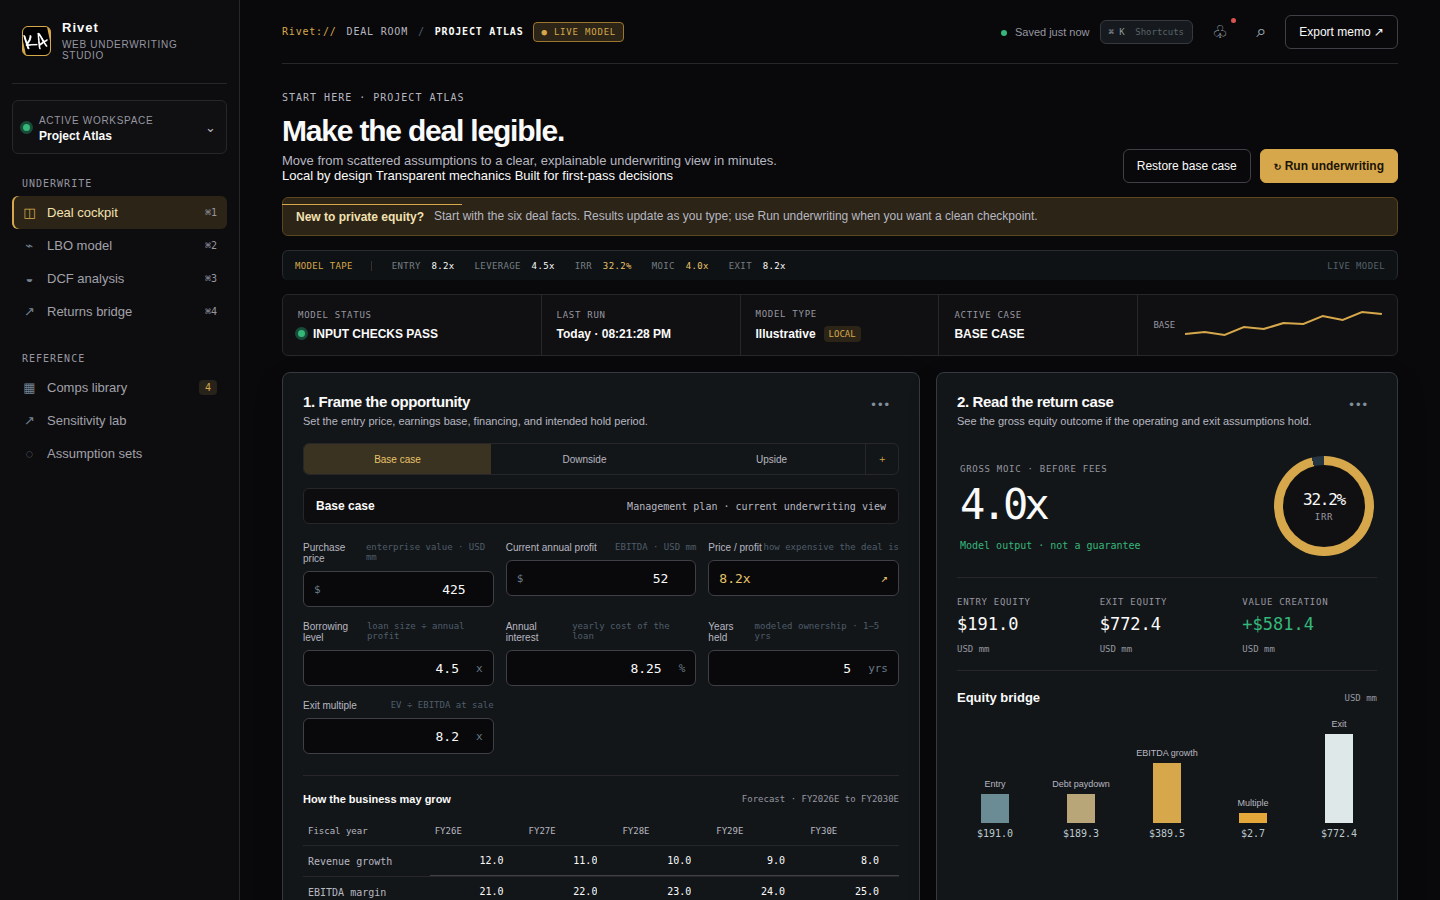
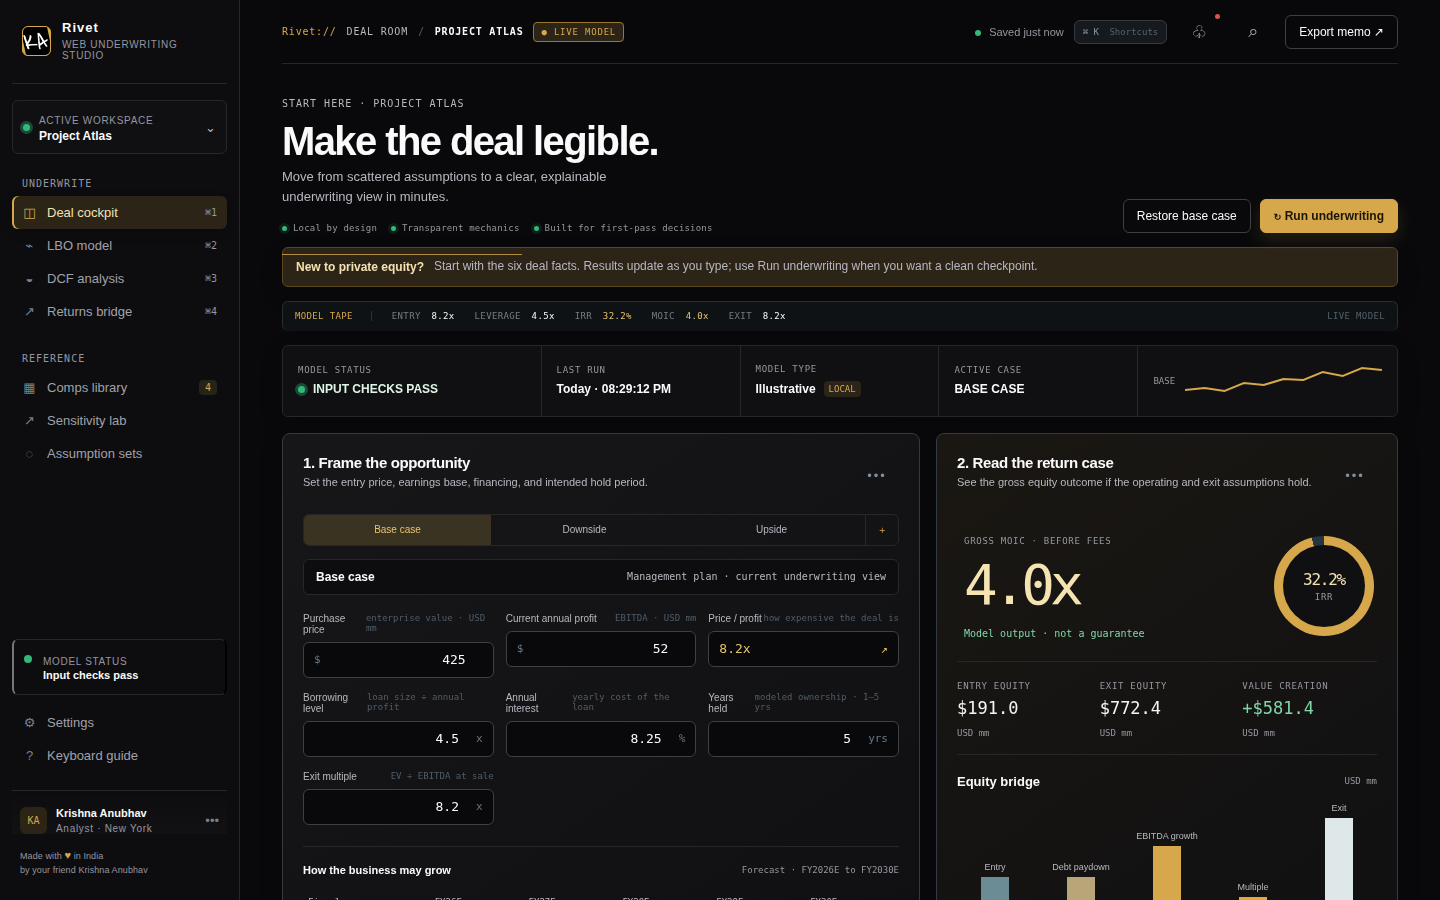
Fix unclosed 720px media query (desktop Sensitivity lab, DCF inputs, Model status, IRR ring) (#6)
Fixes #4

Claude-Session: https://claude.ai/code/session_01A42wbaQJVk97N5TsWqXP4G

diff --git a/styles.css b/styles.css
@@ -184,10 +184,10 @@ footer a{color:var(--muted)}
   .case-context span{display:block;text-align:left;margin-top:4px;line-height:1.4}
 }
 .positive{color:var(--kavy-positive)!important}.status-dot,.pulse{background:var(--kavy-positive)}.status-dot{box-shadow:0 0 0 3px #194b39}.button.primary{background:var(--kavy-gold);border-color:var(--kavy-gold)}.button.primary:hover{background:var(--kavy-gold-highlight);border-color:var(--kavy-gold-highlight)}.live-chip{color:var(--kavy-gold);border-color:var(--kavy-gold-deep)}.brand-mark,.brand-mark{border-color:var(--kavy-gold);color:var(--kavy-gold)}.segmented .selected,.chart-filter.active{background:#3b3322;color:var(--kavy-gold-highlight)}.heat.current{outline-color:var(--kavy-gold)}.readiness{color:var(--kavy-positive);border-color:#286447}.checklist em{color:var(--kavy-positive)}.checklist em.pending{color:var(--kavy-warning)}.calculated{color:var(--kavy-gold-highlight)}.radial{background:conic-gradient(var(--kavy-gold) 0 80%,#34302a 80% 100%)}.radial:after{background:var(--surface)}.ticker-spark path,.chart-line{stroke:var(--kavy-gold)}.line-chart circle{fill:var(--kavy-gold)}.console-log span:first-child{color:var(--kavy-gold)}.dist-bars i.peak{background:var(--kavy-gold)}
-.workspace-view{padding-top:30px}.workspace-view[hidden]{display:none}.workspace-hero{display:flex;justify-content:space-between;align-items:flex-end;margin-bottom:20px}.workspace-hero h1{font-size:32px;letter-spacing:-.06em;margin:0 0 5px}.workspace-hero p{color:var(--muted);margin:0}.workspace-meta{display:flex;flex-direction:column;align-items:flex-end;gap:10px}.mono{font:10px var(--mono)}.workspace-content{min-height:440px}.workspace-grid{display:grid;grid-template-columns:1fr 1fr;gap:28px}.workspace-grid.lower{margin-top:30px;padding-top:22px;border-top:1px solid #343a40}.workspace-content h3{font-size:13px;margin:0}.workspace-note{color:var(--faint);font:10px var(--mono);margin:7px 0 14px}.model-table{font:11px var(--mono);border-top:1px solid #343a40}.model-table>div{display:flex;justify-content:space-between;padding:13px 8px;border-bottom:1px solid #2a3034;color:#a6adb4}.model-table b{color:var(--kavy-white);font-weight:500}.model-table .subtotal{color:var(--kavy-white);background:#1c1e20}.metric-row{display:flex;justify-content:space-between;border-bottom:1px solid #2a3034;padding:14px 4px;color:var(--muted);font:11px var(--mono)}.metric-row strong{color:var(--kavy-gold-highlight)}.formula-box{margin-top:30px;padding:18px;background:#0f1113;border:1px solid #343a40;display:flex;justify-content:space-between;color:var(--kavy-muted);font:11px var(--mono)}.formula-box b{color:var(--kavy-positive);font-weight:400}.returns-workspace{display:grid;grid-template-columns:280px 1fr;gap:38px;align-items:center}.return-hero-large{border-right:1px solid #343a40;padding:15px 30px 15px 0}.return-hero-large small{font:10px var(--mono);color:var(--faint)}.return-hero-large strong{display:block;color:var(--kavy-gold-highlight);font:58px var(--mono);letter-spacing:-.1em;margin:10px 0}.return-hero-large span{font:10px var(--mono)}.return-drivers>div{position:relative;margin:18px 0;color:var(--muted);font:11px var(--mono)}.return-drivers b{float:right;color:var(--kavy-white)}.return-drivers i{display:block;height:6px;background:var(--kavy-positive);margin-top:9px}.return-drivers i.gold-bar{background:var(--kavy-gold)}.comps-toolbar,.sensitivity-header{display:flex;justify-content:space-between;align-items:center;margin-bottom:17px}.comps-toolbar input{width:250px;background:#0f1113;border:1px solid #343a40;color:var(--text);padding:11px;outline:0}.comp-table{font:10px var(--mono)}.comp-head,.comp-row{display:grid;grid-template-columns:2fr repeat(4,1fr);gap:10px;padding:13px 10px;border-bottom:1px solid #2a3034}.comp-head{color:var(--faint);font-size:9px}.comp-row b{text-align:right;font-weight:400;color:var(--kavy-white)}.comp-row.selected-row{background:#2d2619;box-shadow:inset 0 0 0 1px var(--kavy-gold-deep)}.large-surface{display:grid;grid-template-columns:repeat(7,1fr);gap:3px}.surface-cell{padding:23px 5px;text-align:center;font:11px var(--mono);color:#101412;background:#4d7257}.s1{background:#2b3a35}.s2{background:#3d5849}.s3{background:#56745a}.s4{background:#6f9168}.s5{background:#8eac76}.s6{background:#b9c384}.s7{background:#d6d29b}.legend{display:flex;gap:10px;align-items:center;color:var(--faint);font:9px var(--mono);margin-top:13px}.legend i{height:6px;flex:1;background:linear-gradient(90deg,#2b3a35,#d6d29b)}.assumption-list{border-top:1px solid #343a40;margin-bottom:22px}.assumption-row{display:flex;align-items:center;gap:13px;border-bottom:1px solid #2a3034;padding:17px 10px}.assumption-row>div{flex:1}.assumption-row strong,.assumption-row small{display:block}.assumption-row small{color:var(--faint);font:10px var(--mono);margin-top:5px}.assumption-row>b{color:var(--faint);font:9px var(--mono)}.assumption-row.active{background:#2d2619}.assumption-row.active>b{color:var(--kavy-gold)}.muted-dot{background:#69737a;box-shadow:none}
+.workspace-view{padding-top:30px}.workspace-view[hidden]{display:none}.workspace-hero{display:flex;justify-content:space-between;align-items:flex-end;margin-bottom:20px}.workspace-hero h1{font-size:32px;letter-spacing:-.06em;margin:0 0 5px}.workspace-hero p{color:var(--muted);margin:0}.workspace-meta{display:flex;flex-direction:column;align-items:flex-end;gap:10px}.mono{font:10px var(--mono)}.workspace-content{min-height:440px}.workspace-grid{display:grid;grid-template-columns:1fr 1fr;gap:28px}.workspace-grid.lower{margin-top:30px;padding-top:22px;border-top:1px solid #343a40}.workspace-content h3{font-size:13px;margin:0}.workspace-note{color:var(--faint);font:10px var(--mono);margin:7px 0 14px}.model-table{font:11px var(--mono);border-top:1px solid #343a40}.model-table>div{display:flex;justify-content:space-between;padding:13px 8px;border-bottom:1px solid #2a3034;color:#a6adb4}.model-table b{color:var(--kavy-white);font-weight:500}.model-table .subtotal{color:var(--kavy-white);background:#1c1e20}.metric-row{display:flex;justify-content:space-between;border-bottom:1px solid #2a3034;padding:14px 4px;color:var(--muted);font:11px var(--mono)}.metric-row strong{color:var(--kavy-gold-highlight)}.formula-box{margin-top:30px;padding:18px;background:#0f1113;border:1px solid #343a40;display:flex;justify-content:space-between;color:var(--kavy-muted);font:11px var(--mono)}.formula-box b{color:var(--kavy-positive);font-weight:400}.returns-workspace{display:grid;grid-template-columns:280px 1fr;gap:38px;align-items:center}.return-hero-large{border-right:1px solid #343a40;padding:15px 30px 15px 0}.return-hero-large small{font:10px var(--mono);color:var(--faint)}.return-hero-large strong{display:block;color:var(--kavy-gold-highlight);font:58px var(--mono);letter-spacing:-.1em;margin:10px 0}.return-hero-large span{font:10px var(--mono)}.return-drivers>div{position:relative;margin:18px 0;color:var(--muted);font:11px var(--mono)}.return-drivers b{float:right;color:var(--kavy-white)}.return-drivers i{display:block;height:6px;background:var(--kavy-positive);margin-top:9px}.return-drivers i.gold-bar{background:var(--kavy-gold)}.comps-toolbar,.sensitivity-header{display:flex;justify-content:space-between;align-items:center;margin-bottom:17px}.comps-toolbar input{width:250px;background:#0f1113;border:1px solid #343a40;color:var(--text);padding:11px;outline:0}.comp-table{font:10px var(--mono)}.comp-head,.comp-row{display:grid;grid-template-columns:2fr repeat(4,1fr);gap:10px;padding:13px 10px;border-bottom:1px solid #2a3034}.comp-head{color:var(--faint);font-size:9px}.comp-row b{text-align:right;font-weight:400;color:var(--kavy-white)}.comp-row.selected-row{background:#2d2619;box-shadow:inset 0 0 0 1px var(--kavy-gold-deep)}.large-surface{display:block;overflow-x:auto}.surface-cell{padding:23px 5px;text-align:center;font:11px var(--mono);color:#101412;background:#4d7257}.s1{background:#2b3a35}.s2{background:#3d5849}.s3{background:#56745a}.s4{background:#6f9168}.s5{background:#8eac76}.s6{background:#b9c384}.s7{background:#d6d29b}.legend{display:flex;gap:10px;align-items:center;color:var(--faint);font:9px var(--mono);margin-top:13px}.legend i{height:6px;flex:1;background:linear-gradient(90deg,#2b3a35,#d6d29b)}.assumption-list{border-top:1px solid #343a40;margin-bottom:22px}.assumption-row{display:flex;align-items:center;gap:13px;border-bottom:1px solid #2a3034;padding:17px 10px}.assumption-row>div{flex:1}.assumption-row strong,.assumption-row small{display:block}.assumption-row small{color:var(--faint);font:10px var(--mono);margin-top:5px}.assumption-row>b{color:var(--faint);font:9px var(--mono)}.assumption-row.active{background:#2d2619}.assumption-row.active>b{color:var(--kavy-gold)}.muted-dot{background:#69737a;box-shadow:none}
 .main-content{background-image:none}.terminal-prefix{color:var(--kavy-gold);font-weight:500}.save-light{display:inline-block;width:6px;height:6px;background:var(--kavy-positive);border-radius:50%;margin-right:5px}.command-trigger{border:1px solid #343a40;background:#161a1e;color:#8e989f;padding:6px 8px;font:9px var(--mono)}.command-trigger span{color:#59636a;margin-left:5px}.page-head{position:relative}.page-head:after{content:"";position:absolute;bottom:0;left:0;width:180px;border-bottom:1px solid var(--kavy-gold)}.eyebrow-rule{color:#4a3c24;margin-left:7px}.gold{color:var(--kavy-gold-highlight)!important}.market-tape{height:30px;background:#0f1214;border:1px solid #282d30;border-bottom:0;display:flex;align-items:center;gap:20px;padding:0 12px;color:#737d83;font:9px var(--mono);letter-spacing:.04em}.market-tape span{white-space:nowrap}.market-tape b{color:var(--kavy-white);font-weight:500;margin-left:5px}.market-tape .gold{color:var(--kavy-gold-highlight)}.tape-label{color:var(--kavy-gold)!important;border-right:1px solid #393025;padding-right:18px}.tape-clock{margin-left:auto;color:#536069!important}.panel{background:rgba(20,23,26,.96);border-color:#343a40;box-shadow:0 12px 30px rgba(0,0,0,.15)}
 @media(max-width:720px){.market-tape{gap:11px;overflow:hidden}.market-tape span:nth-child(3),.market-tape span:nth-child(6),.tape-clock{display:none}.command-trigger span{display:none}}
-.workspace-hero{gap:20px}@media(max-width:720px){.workspace-view{padding-top:22px}.workspace-hero{display:block}.workspace-hero h1{font-size:27px}.workspace-meta{align-items:flex-start;margin-top:18px}.workspace-grid,.returns-workspace{grid-template-columns:1fr;gap:20px}.return-hero-large{border-right:0;border-bottom:1px solid #343a40;padding:0 0 20px}.return-hero-large strong{font-size:46px}.formula-box{display:block;line-height:1.8}.formula-box b{display:block;margin-top:6px}.comps-toolbar{display:block}.comps-toolbar input{width:100%;margin-bottom:12px}.comp-head,.comp-row{grid-template-columns:1.5fr repeat(4,minmax(50px,1fr));font-size:9px;gap:6px;overflow:hidden}.large-surface{grid-template-columns:repeat(7,minmax(42px,1fr));overflow:auto}.surface-cell{padding:17px 3px}.workspace-content{overflow:hidden}}
+.workspace-hero{gap:20px}@media(max-width:720px){.workspace-view{padding-top:22px}.workspace-hero{display:block}.workspace-hero h1{font-size:27px}.workspace-meta{align-items:flex-start;margin-top:18px}.workspace-grid,.returns-workspace{grid-template-columns:1fr;gap:20px}.return-hero-large{border-right:0;border-bottom:1px solid #343a40;padding:0 0 20px}.return-hero-large strong{font-size:46px}.formula-box{display:block;line-height:1.8}.formula-box b{display:block;margin-top:6px}.comps-toolbar{display:block}.comps-toolbar input{width:100%;margin-bottom:12px}.comp-head,.comp-row{grid-template-columns:1.5fr repeat(4,minmax(50px,1fr));font-size:9px;gap:6px;overflow:hidden}.large-surface{overflow:auto}.surface-cell{padding:17px 3px}.workspace-content{overflow:hidden}}
 .dashboard-grid>*,.bottom-grid>*{min-width:0}.checklist label{min-width:0}.checklist label span{min-width:0;overflow:hidden;text-overflow:ellipsis;white-space:nowrap}
 @media(max-width:720px){.bottom-grid{min-width:0}.bottom-grid .panel{min-width:0;overflow:hidden}.readiness{flex-shrink:0}.panel-heading>div{min-width:0}.panel-heading h2{white-space:nowrap}}
 .radial{overflow:hidden}.radial strong{font-size:clamp(12px,2vw,16px);letter-spacing:-.08em;white-space:nowrap}.radial small{font-size:9px}
@@ -202,10 +202,13 @@ footer a{color:var(--muted)}
   .orientation-note span{line-height:1.35}
   .page-head h1{line-height:1.05}
   .head-actions .button{min-height:44px}
-  .workspace-actions{display:flex;justify-content:flex-end;gap:8px;margin-bottom:16px}
-  .workspace-help{display:grid;gap:4px;margin-bottom:20px;padding:13px 15px;border:1px solid var(--line);border-radius:6px;background:var(--surface-2)}
-  .workspace-help strong{font-size:12px;color:var(--text)}
-  .workspace-help span{color:var(--muted);font-size:11px;line-height:1.55}
+}
+
+/* Desktop-first utility, sidebar and workspace rules (were accidentally nested in the 720px query above). */
+.workspace-actions{display:flex;justify-content:flex-end;gap:8px;margin-bottom:16px}
+.workspace-help{display:grid;gap:4px;margin-bottom:20px;padding:13px 15px;border:1px solid var(--line);border-radius:6px;background:var(--surface-2)}
+.workspace-help strong{font-size:12px;color:var(--text)}
+.workspace-help span{color:var(--muted);font-size:11px;line-height:1.55}
 .data-health{width:100%;text-align:left;background:transparent;color:inherit;font:inherit;cursor:pointer}
 .utility-modal{position:fixed;inset:0;z-index:20;display:grid;place-items:center;padding:20px;background:rgba(0,0,0,.72)}
 .utility-modal[hidden]{display:none}
@@ -306,18 +309,20 @@ body{background:
   .ticker-strip>div{min-height:58px}
   .returns-panel .returns-hero strong{font-size:36px}
 }
-  .inline-field{display:flex;align-items:center;justify-content:space-between;gap:8px;padding:8px 0;color:var(--muted);font-size:12px}
-  .inline-field input{width:74px;border:1px solid var(--line-strong);border-radius:5px;background:var(--surface-2);color:var(--text);padding:7px;text-align:right}
-  .sanity-card{display:grid;gap:5px;margin-top:18px;padding:12px;border:1px solid var(--line);border-radius:6px;background:var(--surface-2)}
-  .sanity-card span{color:var(--accent);font-weight:700;font-size:13px}.sanity-card small{color:var(--muted);line-height:1.5}
-  .assumption-row{width:100%;border:0;border-bottom:1px solid var(--line);background:transparent;color:var(--text);display:grid;grid-template-columns:8px 1fr auto;gap:10px;text-align:left;padding:14px 8px;cursor:pointer}
-  .assumption-row:hover,.assumption-row.active{background:var(--surface-2)}.assumption-row small{display:block;color:var(--muted);margin-top:3px}
-  .surface-axis{display:grid;grid-template-columns:105px repeat(7,minmax(48px,1fr));gap:4px;color:var(--muted);font-size:10px;text-align:center;padding-bottom:5px}
-  .surface-axis span:first-child{grid-column:1}.surface-row{display:grid;grid-template-columns:105px repeat(7,minmax(48px,1fr));gap:4px;margin-bottom:4px}
-  .surface-axis-label{display:flex;align-items:center;justify-content:center;color:var(--muted);font-size:11px}
-  .surface-cell{display:flex;align-items:center;justify-content:center;min-height:44px;border-radius:4px;color:#151719;font-size:11px}
-  .market-tape{font-size:8px}
-}
+.inline-field{display:flex;align-items:center;justify-content:space-between;gap:8px;padding:8px 0;color:var(--muted);font-size:12px}
+.inline-field input{width:74px;border:1px solid var(--line-strong);border-radius:5px;background:var(--surface-2);color:var(--text);padding:7px;text-align:right}
+.sanity-card{display:grid;gap:5px;margin-top:18px;padding:12px;border:1px solid var(--line);border-radius:6px;background:var(--surface-2)}
+.sanity-card span{color:var(--accent);font-weight:700;font-size:13px}.sanity-card small{color:var(--muted);line-height:1.5}
+.assumption-row{width:100%;border:0;border-bottom:1px solid var(--line);background:transparent;color:var(--text);display:grid;grid-template-columns:8px 1fr auto;gap:10px;text-align:left;padding:14px 8px;cursor:pointer}
+.assumption-row:hover,.assumption-row.active{background:var(--surface-2)}.assumption-row small{display:block;color:var(--muted);margin-top:3px}
+.surface-axis{display:grid;grid-template-columns:105px repeat(7,minmax(48px,1fr));gap:4px;color:var(--muted);font-size:10px;text-align:center;padding-bottom:5px}
+.surface-axis span:first-child{grid-column:1}.surface-row{display:grid;grid-template-columns:105px repeat(7,minmax(48px,1fr));gap:4px;margin-bottom:4px}
+.surface-axis-label{display:flex;align-items:center;justify-content:center;color:var(--muted);font-size:11px}
+.surface-cell{display:flex;align-items:center;justify-content:center;min-height:44px;border-radius:4px;color:#151719;font-size:11px}
+
+/* Ring value: the editorial `.returns-hero strong` size must not reach the radial's own <strong>. */
+.returns-panel .returns-hero .radial strong{font-size:16px;letter-spacing:-.08em}
+@media(max-width:720px){.market-tape{font-size:8px}}
 
 /* Phone-width topbar fix: at <=480px the breadcrumb + shortcuts trigger +
    export button no longer fit one unwrapping flex row and were clipping

diff --git a/README.md b/README.md
@@ -39,11 +39,9 @@ Captured with headless Chromium from the running app at its default inputs, the 
 | View | Desktop, 1440x900 | Mobile, 390x844 |
 | --- | --- | --- |
 | LBO returns (deal cockpit, base case) | <a href="docs/img/app-lbo-returns-desktop.png"><img src="docs/img/app-lbo-returns-desktop.png" alt="Desktop: Rivet deal cockpit at the base case showing 4.0x gross MOIC, 32.2% gross IRR, entry equity $191.0mm, exit equity $772.4mm and the equity bridge" width="100%"></a> | <a href="docs/img/app-lbo-returns-mobile.png"><img src="docs/img/app-lbo-returns-mobile.png" alt="Mobile: Rivet deal cockpit at the base case showing 4.0x gross MOIC, 32.2% gross IRR, entry equity $191.0mm, exit equity $772.4mm and the equity bridge" width="100%"></a> |
-| Sensitivity table (gross IRR by exit multiple and EBITDA growth) | <a href="docs/img/app-sensitivity-desktop.png"><img src="docs/img/app-sensitivity-desktop.png" alt="Desktop: Rivet sensitivity table of gross IRR for exit multiples of 7.0x to 11.0x against EBITDA growth of -5% to 25%" width="100%"></a> | <a href="docs/img/app-sensitivity-mobile.png"><img src="docs/img/app-sensitivity-mobile.png" alt="Mobile: Rivet sensitivity table of gross IRR for exit multiples of 7.0x to 11.0x against EBITDA growth of -5% to 25%" width="100%"></a> |
+| Sensitivity (gross IRR by exit multiple and EBITDA growth; desktop shows the Sensitivity lab view, mobile the cockpit table) | <a href="docs/img/app-sensitivity-desktop.png"><img src="docs/img/app-sensitivity-desktop.png" alt="Desktop: Rivet Sensitivity lab view showing a gross IRR table for exit multiples of 7.0x to 11.0x against EBITDA growth of -5% to 25%" width="100%"></a> | <a href="docs/img/app-sensitivity-mobile.png"><img src="docs/img/app-sensitivity-mobile.png" alt="Mobile: Rivet sensitivity table of gross IRR for exit multiples of 7.0x to 11.0x against EBITDA growth of -5% to 25%" width="100%"></a> |
 | DCF view | <a href="docs/img/app-dcf-desktop.png"><img src="docs/img/app-dcf-desktop.png" alt="Desktop: Rivet DCF analysis view listing PV of forecast cash flows $191.0mm, PV of terminal value $602.5mm and enterprise value $793.6mm, with editable WACC and terminal growth" width="100%"></a> | <a href="docs/img/app-dcf-mobile.png"><img src="docs/img/app-dcf-mobile.png" alt="Mobile: Rivet DCF analysis view listing PV of forecast cash flows $191.0mm, PV of terminal value $602.5mm and enterprise value $793.6mm, with editable WACC and terminal growth" width="100%"></a> |
 | Validation error (borrowing level set to 9.0x) | <a href="docs/img/app-validation-error-desktop.png"><img src="docs/img/app-validation-error-desktop.png" alt="Desktop: Rivet showing the error "Borrowing is too high: debt should stay below 90% of the purchase price" with all outputs blanked" width="100%"></a> | <a href="docs/img/app-validation-error-mobile.png"><img src="docs/img/app-validation-error-mobile.png" alt="Mobile: Rivet showing the error "Borrowing is too high: debt should stay below 90% of the purchase price" with all outputs blanked" width="100%"></a> |
-
-Known rendering issues visible in these captures, unfixed here and tracked separately: on desktop the DCF view shows unstyled inputs and a white "Model status" button in the sidebar; the standalone Sensitivity lab view does not lay out its table (the cockpit table above is the working one). See the pull request for the cause.
 
 ## How the numbers flow
 
